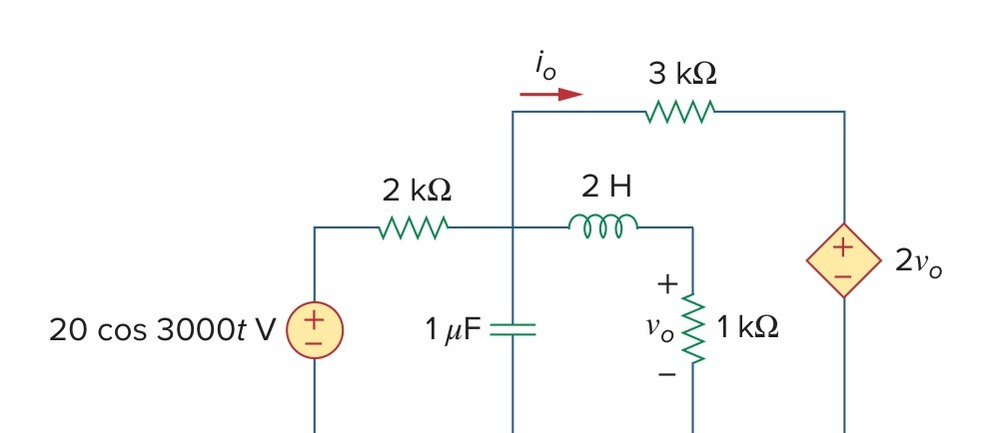
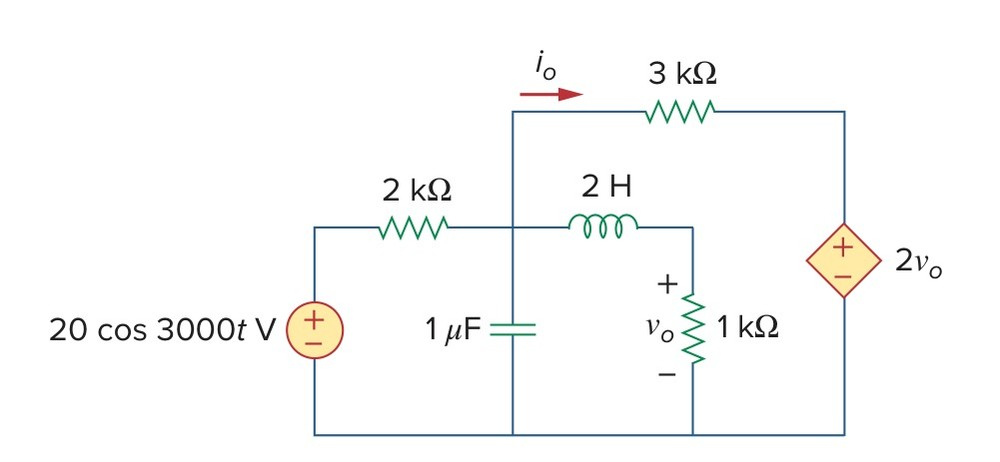
#457: AS7 figure crops (2.15, 10.2, 10.4, 11.4, P10.13) and printed widths for 5.1 and P10.6

diff --git a/tools/as7/specs.py b/tools/as7/specs.py
@@ -18,7 +18,7 @@ SPECS = [
 dict(num="2.15", title="Equivalent resistance by delta-wye transformation",
      ask="Obtain (a) the equivalent resistance $R_{ab}$ for the circuit in the figure and (b) use "
          "it to find current $i$.",
-     page=80, fig=(81, "2.52"), domain="dc",
+     page=80, fig=(81, "2.52"), figrect=(367, 60, 524, 184.5), domain="dc",
      desc="e,a,0,120:r1,a,c,12.5:r2,c,0,15:r3,a,n,10:r4,n,0,20:r5,c,n,5:r6,a,0,30",
      expect={"i_e": -120 * 19 / 183, "r_e": 183 / 19},
      letters={"r_e": "a"},
@@ -528,7 +528,7 @@ dict(num="9.14", title="The phase shift of an RL ladder",
 
 dict(num="10.2", title="Nodal analysis with a supernode",
      ask="Compute $V_1$ and $V_2$ in the circuit of the figure.",
-     page=440, fig=(440, "10.4"), domain="ac", omega=W,
+     page=440, fig=(440, "10.4"), figrect=(255, 461, 457, 566.5), domain="ac", omega=W,
      desc="j,0,1,3:rc,1,0,-3j:e,1,2,(10∠45°):r4,1,2,4:rl,2,0,6j:r12,2,0,12",
      expect={"v_1": 8.5982 - 24.302j, "v_2": 1.5271 - 31.373j},
      booknames={"v_1": "V_1", "v_2": "V_2"},
@@ -544,7 +544,7 @@ dict(num="10.2", title="Nodal analysis with a supernode",
 
 dict(num="10.4", title="Mesh analysis with a supermesh",
      ask="Solve for $V_o$ in the circuit of the figure.",
-     page=443, fig=(443, "10.9"), domain="ac", omega=W,
+     page=443, fig=(443, "10.9"), figrect=(126, 97, 308, 188.5), domain="ac", omega=W,
      desc="e,l,0,10:rc4,t,l,-4j:r8,l,c,8:j1,c,t,4:rl,c,r,5j:r6,t,r,6:j2,0,r,3:rc2,c,0,-2j",
      expect={"v_c": -7.2134 - 6.568j},
      booknames={"v_c": "V_o"},
@@ -693,7 +693,7 @@ dict(num="10.11", title="An op amp circuit in AC",
 
 dict(num="p10.13", title="A circuit with a voltage-controlled voltage source",
      ask="Obtain $v_o$ and $i_o$ in the circuit of the figure.",
-     page=458, fig=(458, "10.37"), figrect=(252, 394, 478, 484), domain="ac", omega=3000,
+     page=458, fig=(458, "10.37"), figrect=(252, 394, 478, 491), domain="ac", omega=3000,
      desc="e,s,0,20:r2k,s,1,2'k:c,1,0,1'u:l,1,2,2:r1k,2,0,1'k:r3k,1,d,3'k:e2,d,0,2*vr1k",
      expect={"v_2": -0.48483 - 0.22963j, "i_r3k": 0.00062258 - 0.00089247j},
      booknames={"v_2": "V_o", "i_r3k": "I_o"},
@@ -715,7 +715,7 @@ dict(num="p10.13", title="A circuit with a voltage-controlled voltage source",
 dict(num="11.4", title="Average power of every element",
      ask="Determine the average power generated by each source and the average power "
          "absorbed by each passive element in the circuit of the figure.",
-     page=487, fig=(487, "11.5"), domain="ac", omega=W,
+     page=487, fig=(487, "11.5"), figrect=(83, 114, 273, 180.3), domain="ac", omega=W,
      desc="j,0,1,4:r20,1,m,20:rl,m,0,10j:rc,m,r,-5j:e,r,0,(60∠30°)",
      expect={"@-p_j": 367.85, "@-p_e": -207.85, "p_r20": 160, "p_rl": 0, "p_rc": 0},
      delivered=["@-p_j", "@-p_e"],

diff --git a/NEXT_DOCS.md b/NEXT_DOCS.md
@@ -3,6 +3,35 @@
 Numbered on the running sequence shared with
 `Application/v9/repos/local/NEXT.md`, which stood at #77 when this file started.
 
+## #457 — AS7 figure crops and two printed widths — **live 15 Sep 2026**
+
+Roberto's figure round on the AS7 sampler. Five crops given explicit
+`figrect`s in `tools/as7/specs.py`, each re-exported alone (a helper calling
+`figlib.save` exactly as `export_figs.py` does, so the other figures' bytes
+did not move) and checked by eye: **P10.13** had lost its ground rail;
+**2.15** carried the top of its caption and a page-number fragment; **10.2**
+and **10.4** had lost top and bottom; **11.4** had lost its bottom, and its
+page prints circuits (a) and (b) side by side, so the crop takes (a) and stops
+above its label. A lesson worth keeping: a `figrect` read off a gridded page
+render landed several points off in the export, so each crop was settled by
+measuring the exported image, not the grid.
+
+Two printed widths through `tools/figure_sizes.json`'s `overrides`: **5.1**
+at the full line, 156 mm (the web unchanged, the image already filling the
+column), and **P10.6** at 135 mm (from the 112 mm fallback; on the web that
+also caps it at about 470 px, a little narrower than the column it filled).
+None of the AS7 figures is in the manifest's measured table, so every one of
+them prints at the fallback 72% of the line.
+
+Full build: the Course 313 pages, AS7's sampler 57, NR12's 52, the Manual 46,
+v7 235, v8 223, no unresolved reference in any; card truth 15 and 36 panels,
+none disagreeing. Measured in the built PDF: 5.1 at 156.0 x 50.2 mm, P10.6 at
+135.0 x 38.9 mm. Deployed; the five figures and two PDFs hashed live against
+the build, version 7's and 8's `lesson-dc` byte-identical across it. Roberto's
+typed prunes were done the same hour and verified: 0.6.8–0.6.13 404 on
+install, 0.6.14 served byte-identical to `vendor/`, `sym_nr12_p1836.png` 404
+on learn.
+
 ## #456 — the Samplers, a book of their own with a PDF per textbook — **live 15 Sep 2026**
 
 Roberto: *"the samplers should be their own thing. In the learn landing page,
